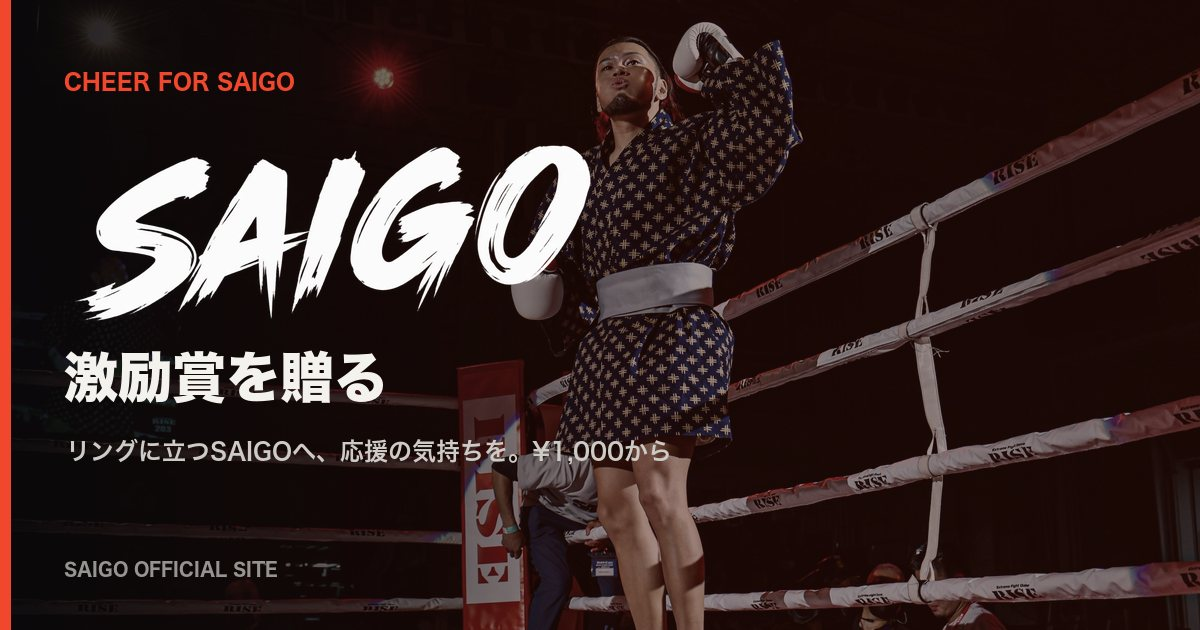
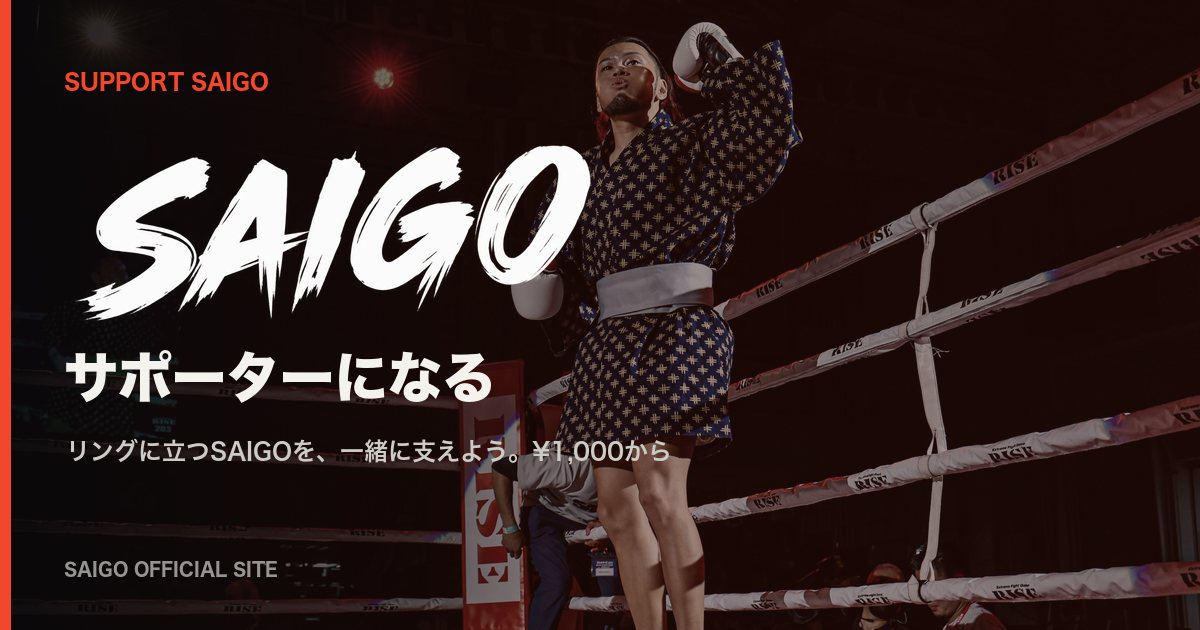
激励賞→サポーターに文言変更

Changed region(s): [[0.0308, 0.5429, 0.4317, 0.6635], [0.0308, 0.0905, 0.2467, 0.1508], [0.2467, 0.6937, 0.4317, 0.754]]

diff --git a/cheer.html b/cheer.html
@@ -3,13 +3,13 @@
 <head>
   <meta charset="utf-8">
   <meta name="viewport" content="width=device-width, initial-scale=1">
-  <title>激励賞を贈る | SAIGO OFFICIAL SITE</title>
-  <meta name="description" content="プロキックボクサー SAIGO（TARGET SHIBUYA）へ激励賞を贈る。¥1,000から、お名前・メッセージを添えて応援できます。">
+  <title>サポーターになる | SAIGO OFFICIAL SITE</title>
+  <meta name="description" content="プロキックボクサー SAIGO（TARGET SHIBUYA）のサポーターになる。¥1,000から、お名前・メッセージを添えて応援できます。">
   <meta name="theme-color" content="#0d0d0f">
   <meta property="og:type" content="website">
   <meta property="og:site_name" content="SAIGO OFFICIAL SITE">
-  <meta property="og:title" content="激励賞を贈る | SAIGO OFFICIAL SITE">
-  <meta property="og:description" content="リングに立つSAIGOへ、激励賞で応援を届けよう。">
+  <meta property="og:title" content="サポーターになる | SAIGO OFFICIAL SITE">
+  <meta property="og:description" content="リングに立つSAIGOを、サポーターとして支えよう。">
   <!-- 共有画像は絶対URLが必要。本番ドメインが決まったら差し替える（README「公開前チェックリスト」） -->
   <meta property="og:image" content="https://shoheyosaka.github.io/saigo/assets/images/og-cheer.jpg">
   <meta property="og:image:width" content="1200">
@@ -62,15 +62,15 @@
     <section class="cheer-section" id="cheer" aria-labelledby="cheer-heading">
       <div class="cheer-intro">
         <p class="section-label">CHEER FOR SAIGO</p>
-        <h1 id="cheer-heading">激励賞を贈る</h1>
+        <h1 id="cheer-heading">サポーターになる</h1>
         <p class="cheer-lead">
-          リングに立つSAIGOへ、応援の気持ちを激励賞として届けませんか。
-          いただいた激励賞は、試合に向けた練習・遠征・減量などの活動に使わせていただきます。
+          リングに立つSAIGOを、サポーターとして支えませんか。
+          いただいたご支援は、試合に向けた練習・遠征・減量などの活動に使わせていただきます。
         </p>
 
         <!-- 特典：選んだ金額で受け取れるものが点灯する（data-perk-min 以上で点灯。main.js が制御） -->
         <div class="cheer-perks">
-          <p class="cheer-perks-title">激励賞の特典</p>
+          <p class="cheer-perks-title">サポーター特典</p>
           <ul>
             <li data-perk-min="1000"><b>¥1,000〜</b><span>SAIGOからのお礼メッセージ</span></li>
             <li data-perk-min="10000"><b>¥10,000〜</b><span>試合毎に使用するTシャツにお名前を掲載</span></li>
@@ -83,7 +83,7 @@
         </div>
       </div>
 
-      <!-- 決済（Stripe Payment Link）とスプレッドシート保存は未実装（README「激励賞」参照） -->
+      <!-- 決済（Stripe Payment Link）とスプレッドシート保存は未実装（README「サポーター」参照） -->
       <form class="cheer-form" novalidate>
         <fieldset class="cheer-step">
           <legend><span>1</span>金額を選ぶ</legend>
@@ -121,9 +121,9 @@
           </label>
         </fieldset>
 
-        <button class="cheer-submit" type="submit"><span class="cheer-submit-label">¥5,000 の激励賞を贈る</span> <span aria-hidden="true">→</span></button>
+        <button class="cheer-submit" type="submit"><span class="cheer-submit-label">¥5,000 でサポーターになる</span> <span aria-hidden="true">→</span></button>
         <p class="cheer-secure">お支払いは Stripe の安全な決済ページで行います（クレジットカード・Apple Pay など）。</p>
-        <p class="form-notice cheer-notice" role="status" hidden>激励賞の決済機能は現在準備中です。お支払いは行われていません。</p>
+        <p class="form-notice cheer-notice" role="status" hidden>サポーターの決済機能は現在準備中です。お支払いは行われていません。</p>
       </form>
 
       <!-- 決済完了後（?cheer=thanks で戻ってきたとき）にフォームの代わりに表示。main.js が制御 -->
@@ -133,7 +133,7 @@
         </figure>
         <img class="chara" src="assets/images/chara-stand.webp" alt="" aria-hidden="true" loading="lazy" decoding="async" width="374" height="640">
         <p class="section-label">THANK YOU</p>
-        <h3>激励賞、<br>ありがとうございました！</h3>
+        <h3>サポートいただき、<br>ありがとうございました！</h3>
         <p>いただいた応援は、SAIGOの力になります。<br>リングの上で結果で応えます。引き続き応援よろしくお願いします！</p>
         <p class="cheer-thanks-perk" hidden>試合毎に使用するTシャツへのお名前掲載（匿名の方を除く）と、オフィシャルTシャツのプレゼントについては、準備ができしだいご連絡します。</p>
         <div class="cheer-thanks-actions">

diff --git a/assets/css/style.css b/assets/css/style.css
@@ -772,7 +772,7 @@ html:has(.subpage) { scroll-padding-top: 82px; }
   color: rgba(255,255,255,.35); font: 600 10px/1 'Barlow Condensed',sans-serif; letter-spacing: .3em;
 }
 
-/* Support（トップの「激励賞・SHOP」入口） --------------------------------- */
+/* Support（トップの「サポーター・SHOP」入口） --------------------------------- */
 .support-section {
   display: flex; flex-direction: column; justify-content: center; gap: 44px;
   padding: 90px max(24px,calc((100vw - 1240px)/2)); background: var(--cream);
@@ -794,7 +794,7 @@ html:has(.subpage) { scroll-padding-top: 82px; }
 }
 .support-card-button span { font-size: 18px; transition: transform .2s ease; }
 .support-card:hover .support-card-button span { transform: translateX(4px); }
-/* 激励賞：黒地＋キャラ */
+/* サポーター：黒地＋キャラ */
 .support-card-cheer { color: white; background: #171719; }
 .support-card-cheer > p:not(.section-label) { color: #b2b1ad; }
 .support-card-cheer .support-card-button { color: white; background: var(--orange); }
@@ -813,7 +813,7 @@ html:has(.subpage) { scroll-padding-top: 82px; }
 }
 .support-card-shop:hover .support-card-photo { transform: scale(1.04) rotate(-2deg); }
 
-/* Cheer (激励賞) ----------------------------------------------------------- */
+/* Cheer (サポーター) ---------------------------------------------------------- */
 .cheer-section {
   display: grid; grid-template-columns: .85fr 1.15fr; gap: clamp(48px,7vw,100px); align-items: start;
   padding: 100px max(24px,calc((100vw - 1240px)/2)); background: #fff;
@@ -1074,7 +1074,7 @@ footer p,footer > a:last-child { color: #777; font: 500 9px/1 'Barlow Condensed'
 .contact-form-section:has(> .photo-bg) .contact-form-intro h2 { font-size: clamp(36px,4.4vw,64px); }
 .contact-form-intro > p.contact-catch { margin-top: 22px; color: var(--orange); font-size: 15px; font-weight: 800; line-height: 1.6; }
 
-/* 激励賞ページ：上部の写真・Tシャツのイメージ・お礼画面の写真 */
+/* サポーターページ：上部の写真・Tシャツのイメージ・お礼画面の写真 */
 .page-hero {
   position: relative; isolation: isolate; display: flex; height: clamp(220px,32vw,380px); align-items: flex-end; overflow: hidden;
   padding: 0 max(24px,calc((100vw - 1240px)/2)); background: #0b0b0d;
@@ -1298,7 +1298,7 @@ footer p,footer > a:last-child { color: #777; font: 500 9px/1 'Barlow Condensed'
   .cheer-amounts span { min-height: 58px; font-size: 19px; }
   .cheer-submit { min-height: 58px; font-size: 14px; }
   .cheer-thanks { margin-inline: -4px; padding: 30px 18px 22px; }
-  /* キャラは1行目「激励賞、」の右の空きに置き、見出しは全幅で使う */
+  /* キャラは1行目「サポートいただき、」の右の空きに置き、見出しは全幅で使う */
   .cheer-thanks .chara { top: 14px; right: 14px; width: 56px; }
   .cheer-thanks h3 { padding-right: 0; font-size: 22px; }
   .cheer-thanks > p:not(.section-label) { font-size: 11px; }

diff --git a/assets/js/main.js b/assets/js/main.js
@@ -36,7 +36,7 @@ const goods = [
 ]
 
 /* ==========================================================================
-   激励賞（決済・保存は未実装）
+   サポーター（旧：激励賞。決済・保存は未実装）
    CHEER_PAYMENT_LINKS : 金額ごとの Stripe Payment Link の URL。空のあいだは「準備中」と表示
    CHEER_SHEET_ENDPOINT: スプレッドシートに保存する Google Apps Script の URL（未設定なら空）
    CHEER_NAME_PERK_MIN : この金額以上で「試合毎に使用するTシャツにお名前」「Tシャツ1枚プレゼント」の特典がつく
@@ -103,7 +103,7 @@ function jumpTo(element) {
 function initIntro() {
   const root = document.documentElement
   const darkShell = document.querySelector('.dark-shell')
-  // 激励賞・SHOP などの別ページにはオープニング演出がない
+  // サポーター・SHOP などの別ページにはオープニング演出がない
   if (!darkShell) return
   let timer = 0
 
@@ -695,7 +695,7 @@ function initVideoFacade() {
   })
 }
 
-/* Cheer (激励賞) ----------------------------------------------------------- */
+/* Cheer (サポーター) ---------------------------------------------------------- */
 function initCheerForm() {
   const form = document.querySelector('.cheer-form')
   if (!form) return
@@ -735,7 +735,7 @@ function initCheerForm() {
 
   const update = () => {
     const amount = getAmount()
-    submitLabel.textContent = `¥${amount.toLocaleString('ja-JP')} の激励賞を贈る`
+    submitLabel.textContent = `¥${amount.toLocaleString('ja-JP')} でサポーターになる`
     perks.forEach((perk) => perk.classList.toggle('is-active', amount >= Number(perk.dataset.perkMin)))
     nameInput.disabled = anonymous.checked
     nameHint.hidden = amount < CHEER_NAME_PERK_MIN || anonymous.checked
@@ -800,7 +800,7 @@ function initCheerThanks() {
   }
 
   const pageUrl = `${window.location.origin}${window.location.pathname}`
-  const shareText = 'プロキックボクサー SAIGO 選手に激励賞を贈りました！一緒に応援しよう 🔥'
+  const shareText = 'プロキックボクサー SAIGO 選手のサポーターになりました！一緒に応援しよう 🔥'
   thanks.querySelector('.cheer-share').href =
     `https://x.com/intent/post?text=${encodeURIComponent(shareText)}&url=${encodeURIComponent(pageUrl)}`
 

diff --git a/index.html b/index.html
@@ -4,7 +4,7 @@
   <meta charset="utf-8">
   <meta name="viewport" content="width=device-width, initial-scale=1">
   <title>SAIGO OFFICIAL SITE | 初代STRIKE NEXUSフェザー級チャンピオン</title>
-  <meta name="description" content="プロキックボクサー SAIGO（TARGET SHIBUYA）の公式サイト。初代STRIKE NEXUSフェザー級チャンピオン。試合情報・戦績・プロフィール・激励賞・グッズ・スポンサー募集。">
+  <meta name="description" content="プロキックボクサー SAIGO（TARGET SHIBUYA）の公式サイト。初代STRIKE NEXUSフェザー級チャンピオン。試合情報・戦績・プロフィール・サポーター・グッズ・スポンサー募集。">
   <meta name="theme-color" content="#0d0d0f">
   <meta property="og:type" content="website">
   <meta property="og:site_name" content="SAIGO OFFICIAL SITE">
@@ -381,9 +381,9 @@
         <a class="support-card support-card-cheer" href="cheer.html">
           <img class="chara" src="assets/images/chara-stand.webp" alt="" aria-hidden="true" loading="lazy" decoding="async" width="374" height="640">
           <p class="section-label">CHEER</p>
-          <h3>激励賞を贈る</h3>
-          <p>リングに立つSAIGOへ、応援の気持ちを激励賞で。¥1,000から、お名前・メッセージを添えて贈れます。</p>
-          <span class="support-card-button">激励賞を贈る <span aria-hidden="true">→</span></span>
+          <h3>サポーターになる</h3>
+          <p>リングに立つSAIGOを、サポーターとして支えよう。¥1,000から、お名前・メッセージを添えて応援できます。</p>
+          <span class="support-card-button">サポーターになる <span aria-hidden="true">→</span></span>
         </a>
         <a class="support-card support-card-shop" href="shop.html">
           <img class="support-card-photo" src="assets/images/goods-tshirt.webp" alt="" aria-hidden="true" loading="lazy" decoding="async" width="800" height="800">

diff --git a/checkout-demo.html b/checkout-demo.html
@@ -3,9 +3,9 @@
 <head>
   <meta charset="utf-8">
   <meta name="viewport" content="width=device-width, initial-scale=1">
-  <!-- 激励賞の「仮の決済ページ」。Stripe 接続前に流れを確認するためのデモ。実際の決済・カード入力は一切ない -->
+  <!-- サポーター（旧：激励賞）の「仮の決済ページ」。Stripe 接続前に流れを確認するためのデモ。実際の決済・カード入力は一切ない -->
   <meta name="robots" content="noindex, nofollow">
-  <title>激励賞のお支払い（デモ） | SAIGO OFFICIAL SITE</title>
+  <title>サポーターのお支払い（デモ） | SAIGO OFFICIAL SITE</title>
   <link rel="icon" href="assets/images/favicon-32.png" sizes="32x32" type="image/png">
   <link rel="preconnect" href="https://fonts.googleapis.com">
   <link rel="preconnect" href="https://fonts.gstatic.com" crossorigin>
@@ -53,7 +53,7 @@
     <a class="logo" href="index.html">SAIGO<span>.</span></a>
     <section class="card" aria-labelledby="checkout-title">
       <p class="label">CHEER FOR SAIGO</p>
-      <h1 id="checkout-title">激励賞のお支払い</h1>
+      <h1 id="checkout-title">サポーターのお支払い</h1>
       <p class="amount"><span data-amount>¥5,000</span><small>（税込）</small></p>
       <dl>
         <div><dt>メールアドレス</dt><dd data-email></dd></div>
@@ -99,7 +99,7 @@
     document.querySelector('[data-pay]').addEventListener('click', () => {
       window.location.href = `cheer.html?cheer=thanks&amount=${amount}`
     })
-    // 戻る：入力内容が残った状態で激励賞欄に戻れるよう、履歴があればブラウザの「戻る」を使う
+    // 戻る：入力内容が残った状態でサポーターページに戻れるよう、履歴があればブラウザの「戻る」を使う
     document.querySelector('[data-back]').addEventListener('click', (event) => {
       if (window.history.length > 1) {
         event.preventDefault()
